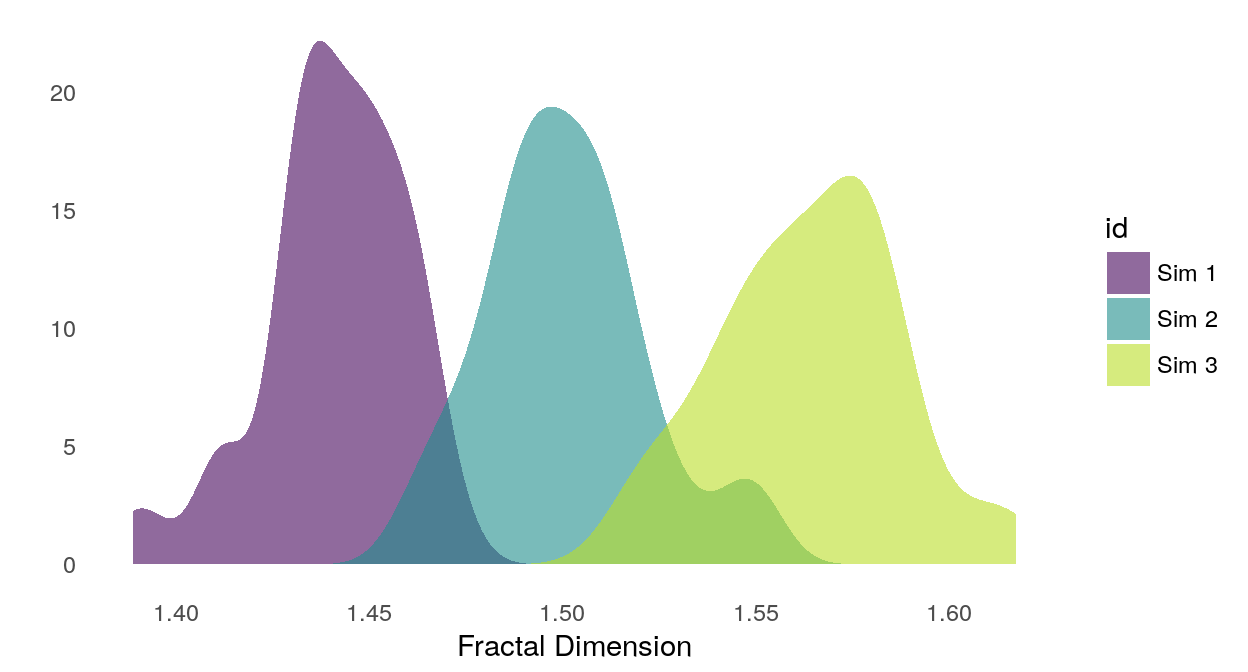
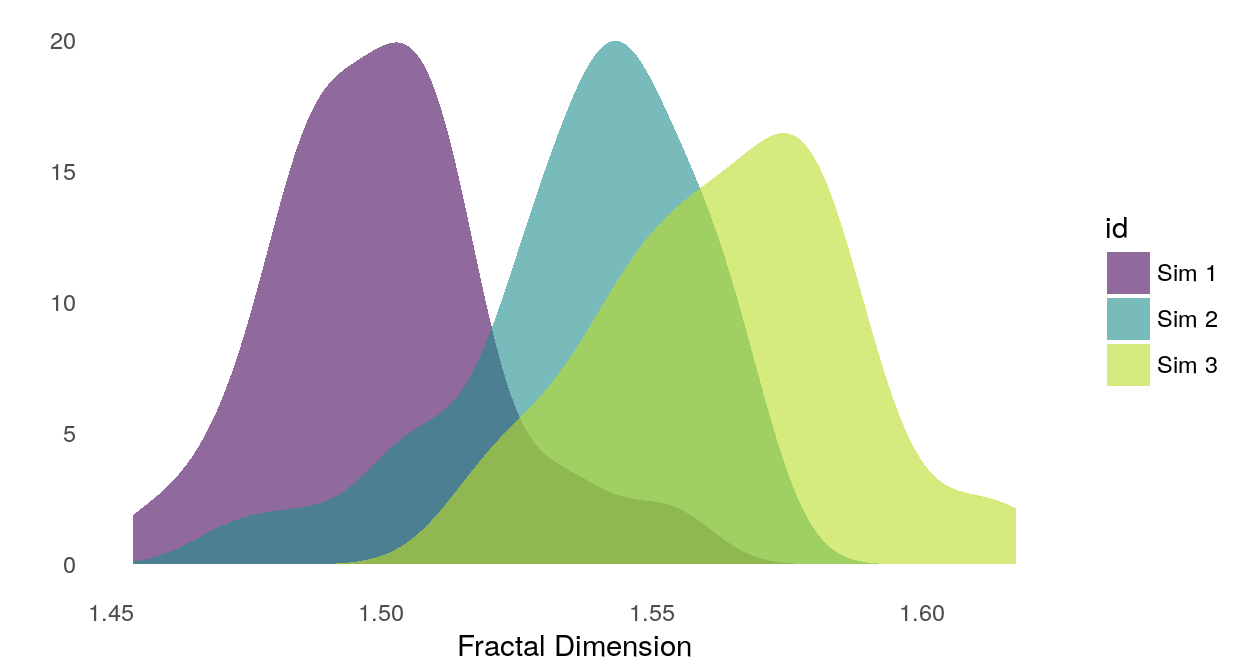
fd update

diff --git a/content/post/fd1.html b/content/post/fd1.html
@@ -2,27 +2,27 @@
 title: "Fractal Dimension"
 author: "Nathanael Aff"
 date: 2017-06-14T21:13:14-05:00
-categories: ["R", "Statistics"]
+categories: ["R", "Stats"]
 tags: ["R", "Time Series"]
 ---
 
 
 
-<p>When I was introduced to fractal(or fractional) dimension it was in the abstract setting of sets. Sometimes fractal dimension is also lumped into the category of nonlinear features that are associated with dynamical systems. There is a more direct relation, though, to more familiar statistical properties of random processes. On top of that, changes in fractal dimension are fairly easy to identify in the graph of a function.</p>
-<p>Roughly speaking, fractal dimension is a local property of a function (more precisely, its graph); Fractal dimension measures a relation of points that are close to each other in the time series. In contrast, the Hurst parameter is a measure of a global property, a measure of a relation of points that are distant from each other.</p>
+<p>When I was introduced to fractal(or fractional) dimension it was in the abstract setting of sets. In applied contexts, I have also seen fractal dimension lumped into the category of nonlinear features that are associated with dynamical systems. Fractal dimension can, more intuitively, be thought as describing the local roughness of a graph. This makes changes in fractal dimension when isolated from other properties, fairly easy to identify in the graph of a function, or random process. On top of that, the fractal dimension of random process can be described in terms of the autocorrelation function of a time series. This links fractal dimension to a more familiar statistical concept.</p>
+<p>Roughly speaking, fractal dimension measures a relation of points that are close to each other in the time series: it describes a property of the time series that holds at the finest resolution. In contrast to this local property, the Hurst parameter is a global property of a time series, a measure of the relation between points in a time series that are distant from each other.</p>
 <p>(If you are interested in more mathematical details, this post is based on a nice and not too long <a href="(https://arxiv.org/abs/physics/0109031)">paper</a> by Tilmann Gneiting.)</p>
 <div id="autocorrelation-function-acf" class="section level3">
 <h3>Autocorrelation Function (ACF)</h3>
 <p>Both of the Hurst parameter and fractal dimension properties are related to the behavior of the autocorrelation function of a random process.</p>
 <p>The <a href="https://en.wikipedia.org/wiki/Autocorrelation">autocorrelation function</a> is the correlation, or similarity, of a function values with itself at various lags <span class="math inline">\(h\)</span>. To simplify things, we assume we have a random process with mean 0 and variance 1. Then the expression for the autocorrelation function is</p>
 <p><span class="math display">\[
-  c(h)  = E[X(t)X(t + h)],  h \in \mathbb{R^n}.
+  c(h)  = E[X(t)X(t + h)], \qquad h \in \mathbb{R^n}.
 \]</span> Fractal dimension characterizes how the the autocorrelation function <span class="math inline">\(c(h)\)</span> behaves as <span class="math inline">\(h\)</span> goes to <span class="math inline">\(0\)</span> while the Hurst parameter characterizes how <span class="math inline">\(c(h)\)</span> behaves as <span class="math inline">\(h\)</span> goes to infinity.</p>
 </div>
 <div id="cauchy-process" class="section level3">
 <h3>Cauchy Process</h3>
 <p>Some random processes, <a href="">Brownian Motion</a>, for instance, have a single parameter that determines both the fractal dimension and the Hurst parameter of the function. The Cauchy process, on the other hand, has two parameters that separately control the fractal dimension(<span class="math inline">\(D\)</span>) and the long-range dependence or Hurst parameter(<span class="math inline">\(H\)</span>). The Cauchy process can be described by its correlation function: <span class="math display">\[
-  c(h) = \left(1+ |h|^{\alpha}\right)^{-\beta/\alpha},  h \in \mathbb{R}^n
+  c(h) = \left(1+ |h|^{\alpha}\right)^{-\beta/\alpha}, \qquad  h \in \mathbb{R}^n
 \]</span> with <span class="math inline">\(\alpha \in (0,2]\)</span> and <span class="math inline">\(\beta &gt; 0\)</span>. The fractal dimension of the graph of a sample from an n-dimensional Cauchy process is determined by the parameter <span class="math inline">\(\alpha\)</span>: <span class="math display">\[
     D =  n + 1 - \frac{\alpha}{2}.
 \]</span> And the Hurst parameter is related to <span class="math inline">\(\beta\)</span>: <span class="math display">\[
@@ -44,7 +44,7 @@ cauchy2D &lt;- function(alpha, beta){
     xy@data
   } 
 }</code></pre>
-<p>The plot below is a set of Cauchy processes corresponding to a grid of paramters <span class="math inline">\(\pi \times \pi\)</span>, <span class="math inline">\(\pi = (0.3, 0,95, 1.6)\)</span>. The plots are labeled with the parameter grid translated into the fractal dimension <span class="math inline">\(D\)</span> and the Hurst parameter <span class="math inline">\(H\)</span>. Fractal dimension is constant on the <strong>columns</strong> and the Hurst parameter is constant on the <strong>rows</strong>.</p>
+<p>The plot below is a set of Cauchy processes corresponding to a grid of parameters <span class="math inline">\(\pi \times \pi\)</span>, <span class="math inline">\(\pi = (0.3, 0,95, 1.6)\)</span>. The plots are labeled with the parameter grid translated into the fractal dimension <span class="math inline">\(D\)</span> and the Hurst parameter <span class="math inline">\(H\)</span>. Fractal dimension is constant on the <strong>columns</strong> and the Hurst parameter is constant on the <strong>rows</strong>.</p>
 <pre class="r"><code># Dimension of field
 n = 100
 # Create a 3 X 3 grid of parameters  
@@ -90,10 +90,13 @@ Figure 1: Cauchy process labeled by fractal dimension (D) and Hurst parameter (H
 <p>Another way to see the effect is by looking at the cross sections. Each of the following graphs is a vertical slice from each of the corresponding random fields above.</p>
 <pre class="r"><code>par(mfrow = c(3,3), mar = c(2,1,1,1))
 plot_transects &lt;- function(k){
-  plot(xs[[k]][,10], col = viridis::viridis(10)[3], 
-                    type = &#39;l&#39;,
-                    lwd = 1.6,  
-                    axes = FALSE)
+  plot(
+       xs[[k]][, 10], 
+       col = viridis::viridis(10)[3], 
+       type = &#39;l&#39;,
+       lwd = 1.6,  
+       axes = FALSE
+       )
   add_text(k)
 }
 
@@ -105,9 +108,9 @@ out &lt;- lapply(1:9, function(k) plot_transects(k))</code></pre>
 Figure 2: Cross sections of 2D Cauchy process.
 </p>
 </div>
-<p>Given the relation of fractal dimension to the autocorrelation function(ACF), we should see the difference in the empirical ACF of each of these time series.</p>
+<p>Given the relation of fractal dimension to the autocorrelation function(ACF), we should see the difference in the empirical ACF of each of these time series. The effect of the Hurst parameter is a little hard to discern but in the left row with constant fractal dimension 1.85, the ACF shows less dependence on past values as the Hurst parameter decreases.</p>
 <pre class="r"><code>par(mfrow = c(3,3), mar = c(2,1,1,1))
-out &lt;- lapply(xs, function(x) acf(x[ ,1], plot = FALSE)) %&gt;% 
+out &lt;- lapply(xs, function(x) acf(x[, 1], plot = FALSE)) %&gt;% 
        lapply(., plot, yaxt = &#39;n&#39;) </code></pre>
 <div class="figure" style="text-align: center"><span id="fig:correlation"></span>
 <img src="/post/fd1_files/figure-html/correlation-1.png" alt="Autocorrelation function for lags h =  0-20" width="624" />
@@ -115,16 +118,16 @@ out &lt;- lapply(xs, function(x) acf(x[ ,1], plot = FALSE)) %&gt;%
 Figure 3: Autocorrelation function for lags h = 0-20
 </p>
 </div>
-<p>For these time series, the plot below shows the values of a fractal dimension estimator against the Hurst parameter of the functions. The plot looks like the parameter grid because changes in the Hurst parameter aren’t affecting the fractal dimension estimator. (The plot matches the functions above when rotated 90 degrees counter-clockwise.)</p>
+<p>Below is a plot of the values of a fractal dimension estimator against the Hurst parameter for each of the previous time series. The plot looks somewhat like the parameter grid because changes in the Hurst parameter aren’t affecting the fractal dimension estimator. (The plot matches the functions above when rotated 90 degrees counter-clockwise.)</p>
 <pre class="r"><code># Compute fractal dimension
-get_fd &lt;- function(x) {
+fractal_dim &lt;- function(x) {
   res &lt;- fractaldim::fd.estimate(x, methods = &quot;variogram&quot;) 
   res$fd  
 }
 
 transects &lt;- lapply(1:9, function(k) xs[[k]][, 10])
 
-plot(coeffs[,2], lapply(transects, get_fd),  
+plot(coeffs[, 2], lapply(transects, fractal_dim),  
             pch = 15,
             cex = 1.7,
             col = viridis::viridis(10)[3], 
@@ -134,31 +137,30 @@ plot(coeffs[,2], lapply(transects, get_fd),
 </div>
 <div id="simulations" class="section level3">
 <h3>Simulations</h3>
-<p>I started the post asserting that fractal dimension could be a useful feature for the classification or clustering of time series. Naturally, this depends on whether your time series have the kind of variation in local behavior that is caught by the fractal dimension estimator.</p>
+<p>Fractal dimension can be a useful feature for the classification or clustering of time series. Here is a simple demonstration of the ability of fractal dimension to discriminate between related ARMA processes. Naturally, whether fractal dimension is useful in other contexts depends on whether the time series or random fields in question have the kind of variation in fine scale behavior captured by fractal dimension estimators.</p>
 <p>For these tests, I generated 50 time series of an <a href="https://en.wikipedia.org/wiki/Autoregressive%E2%80%93moving-average_model">ARMA process</a>. The moving average(MA) component has a random element so each time series will be unique. Only the autoregressive parameters were varied for each time series.</p>
 <pre class="r"><code>set.seed(1)
-
 reps = 50
-t3 &lt;- replicate(reps, arima.sim(n = 500, list(ar = c(0.5, -0.2), ma = c(-5, 0,5))))
-t1 &lt;- replicate(reps, arima.sim(n = 500, list(ar = c(0.7, -0.5), ma = c(-5, 0,5))))
-t2 &lt;- replicate(reps, arima.sim(n = 500, list(ar = c(0.9, -0.2), ma = c(-5, 0,5))))  
+t3 &lt;- replicate(reps, arima.sim(n = 500, list(ar = c(0.5, -0.2), ma = c(-5, 0, 5))))
+t2 &lt;- replicate(reps, arima.sim(n = 500, list(ar = c(0.7, -0.2), ma = c(-5, 0, 5))))
+t1 &lt;- replicate(reps, arima.sim(n = 500, list(ar = c(0.9, -0.2), ma = c(-5, 0, 5))))  
 
 ts_list &lt;- list(t1, t2, t3)
-
-pal = viridis::viridis(50)[c(2,25,45)] 
+pal = viridis::viridis(50)[c(2, 25, 45)] 
 
 # Sample plot of each function
-
 plot_ts &lt;- function(k){
-  plot(ts_list[[k]][1:250, 10], 
-                   type = &#39;l&#39;,
-                   lwd = 1.7, 
-                   cex = 1.6,
-                   bty = &quot;n&quot;,
-                   yaxt = &quot;n&quot;,
-                   xaxt = &quot;n&quot;,
-                   xlab = paste0(&quot;Sim &quot;, k),
-                   col = pal[k])
+  plot(
+        ts_list[[k]][1:250, 10], 
+        type = &#39;l&#39;,
+        lwd = 1.7, 
+        cex = 1.6,
+        bty = &quot;n&quot;,
+        yaxt = &quot;n&quot;,
+        xaxt = &quot;n&quot;,
+        xlab = paste0(&quot;Sim &quot;, k),
+        col = pal[k]
+        )
 }
 par(mfrow = c(3,1), mar = c(4,1,1,1))
 plot_ts(1); plot_ts(2); plot_ts(3)</code></pre>
@@ -179,12 +181,13 @@ Figure 4: Sample from each group ARMA simulations.
 <pre class="r"><code>library(ggplot2)
 
 # Compute features on each group
-df1 &lt;- apply(t1, 2, get_fd) %&gt;% data.frame
-df2 &lt;- apply(t2, 2, get_fd) %&gt;% data.frame
-df3 &lt;- apply(t3, 2, get_fd) %&gt;% data.frame
+df1 &lt;- apply(t1, 2, fractal_dim) %&gt;% data.frame
+df2 &lt;- apply(t2, 2, fractal_dim) %&gt;% data.frame
+df3 &lt;- apply(t3, 2, fractal_dim) %&gt;% data.frame
 
 fd_df &lt;- rbind(df1, df2, df3)
-fd_df$id &lt;- as.factor(c(rep(&quot;Sim 1&quot;, reps), 
+fd_df$id &lt;- as.factor(
+                      c(rep(&quot;Sim 1&quot;, reps), 
                         rep(&quot;Sim 2&quot;, reps), 
                         rep(&quot;Sim 3&quot;, reps))
                         )
@@ -192,10 +195,11 @@ fd_df$id &lt;- as.factor(c(rep(&quot;Sim 1&quot;, reps),
 data_long &lt;- reshape2::melt(fd_df, id.vars = c(&quot;id&quot;))
 
 ggplot(data_long, aes(x = value, fill = id)) +
-       geom_density(alpha = 0.6, 
+       geom_density(
+                alpha = 0.6, 
                 aes(y = ..density..), 
-                position = &quot;identity&quot;, 
-                color = NA) + 
+                position = &quot;identity&quot;,
+                color = NA) +
        scale_fill_manual(values= pal) +
        xlab(&quot;Fractal Dimension&quot;) +
        ylab(&quot;&quot;) + 
